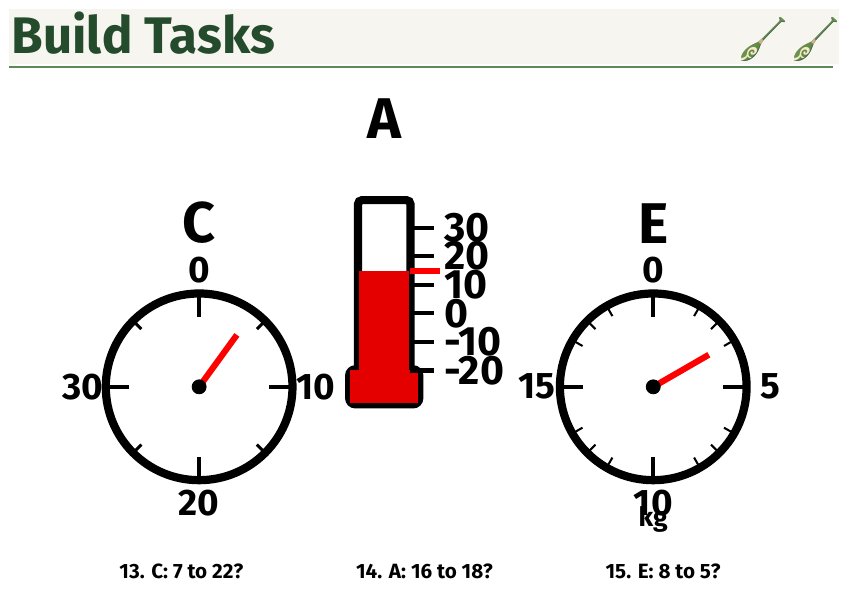
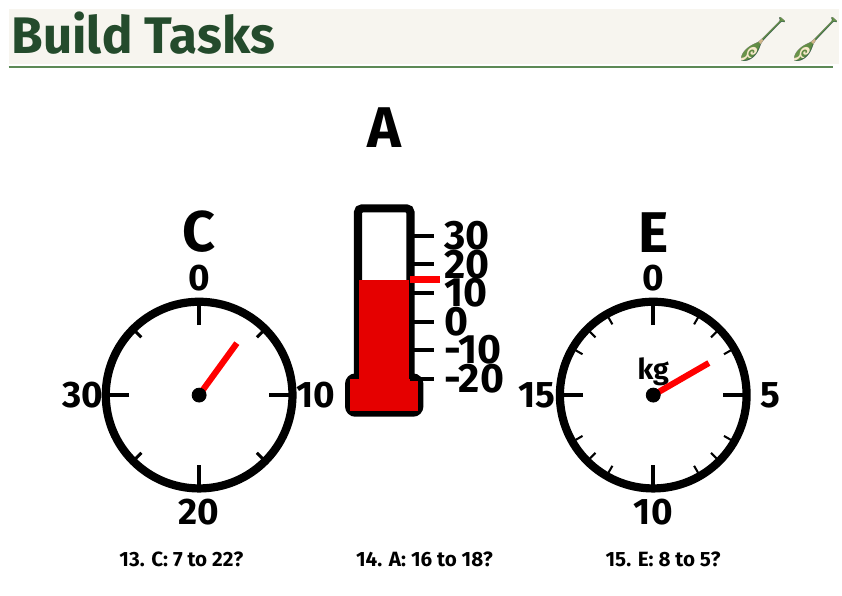
LO11: move kg label inside weigh dial, above center

diff --git a/OBJECTIVES/lo-yr9-reading-scales/excellence-questions.tex b/OBJECTIVES/lo-yr9-reading-scales/excellence-questions.tex
@@ -70,10 +70,11 @@
   \pgfmathsetmacro{\ang}{\a}
   \draw[line width=1pt] (\ang:1.4)--(\ang:1.6);
 }
+% kg label in center
+\node[font=\bfseries\fontsize{14}{14}\selectfont] at (0,0.4) {kg};
 \pgfmathsetmacro{\na}{90 - (#2 * 12)}
 \draw[red,line width=3pt] (0,0)--(\na:1.1);
 \filldraw[black] (0,0) circle (0.12);
-\node[below,font=\bfseries\fontsize{13}{13}\selectfont,yshift=-0.2cm] at (0,-1.6) {\strut kg};
 \end{tikzpicture}}
 
 % -- SPEEDOMETER (0-100, semi-circle 2 wide x 2.5 tall) --

diff --git a/OBJECTIVES/lo-yr9-reading-scales/foundation-questions.tex b/OBJECTIVES/lo-yr9-reading-scales/foundation-questions.tex
@@ -70,10 +70,11 @@
   \pgfmathsetmacro{\ang}{\a}
   \draw[line width=1pt] (\ang:1.4)--(\ang:1.6);
 }
+% kg label in center
+\node[font=\bfseries\fontsize{14}{14}\selectfont] at (0,0.4) {kg};
 \pgfmathsetmacro{\na}{90 - (#2 * 12)}
 \draw[red,line width=3pt] (0,0)--(\na:1.1);
 \filldraw[black] (0,0) circle (0.12);
-\node[below,font=\bfseries\fontsize{13}{13}\selectfont,yshift=-0.2cm] at (0,-1.6) {\strut kg};
 \end{tikzpicture}}
 
 % -- SPEEDOMETER (0-100, semi-circle 2 wide x 2.5 tall) --

diff --git a/OBJECTIVES/lo-yr9-reading-scales/proficient-questions.tex b/OBJECTIVES/lo-yr9-reading-scales/proficient-questions.tex
@@ -70,10 +70,11 @@
   \pgfmathsetmacro{\ang}{\a}
   \draw[line width=1pt] (\ang:1.4)--(\ang:1.6);
 }
+% kg label in center
+\node[font=\bfseries\fontsize{14}{14}\selectfont] at (0,0.4) {kg};
 \pgfmathsetmacro{\na}{90 - (#2 * 12)}
 \draw[red,line width=3pt] (0,0)--(\na:1.1);
 \filldraw[black] (0,0) circle (0.12);
-\node[below,font=\bfseries\fontsize{13}{13}\selectfont,yshift=-0.2cm] at (0,-1.6) {\strut kg};
 \end{tikzpicture}}
 
 % -- SPEEDOMETER (0-100, semi-circle 2 wide x 2.5 tall) --
